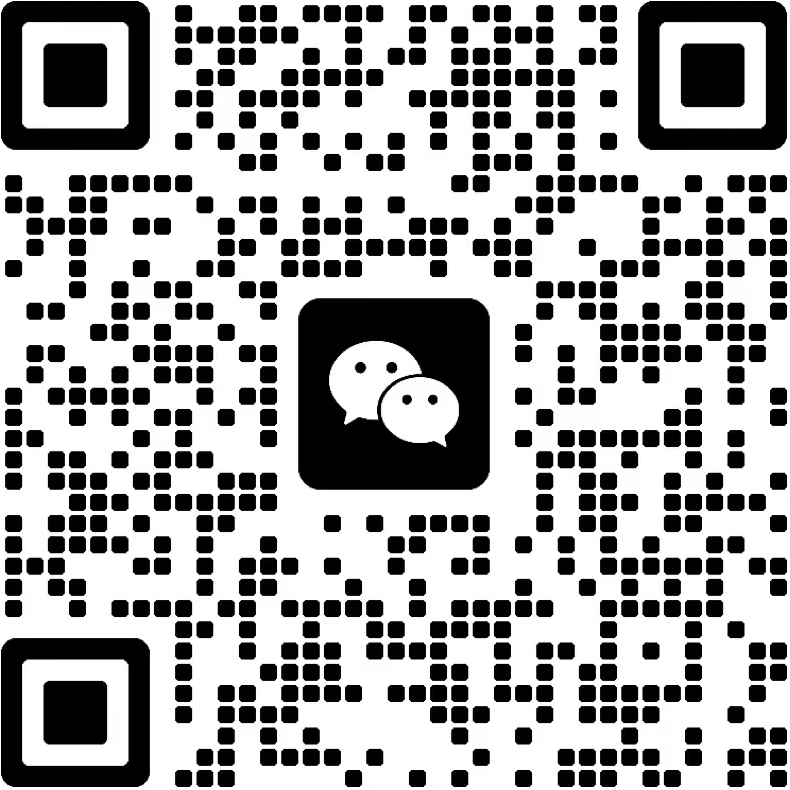
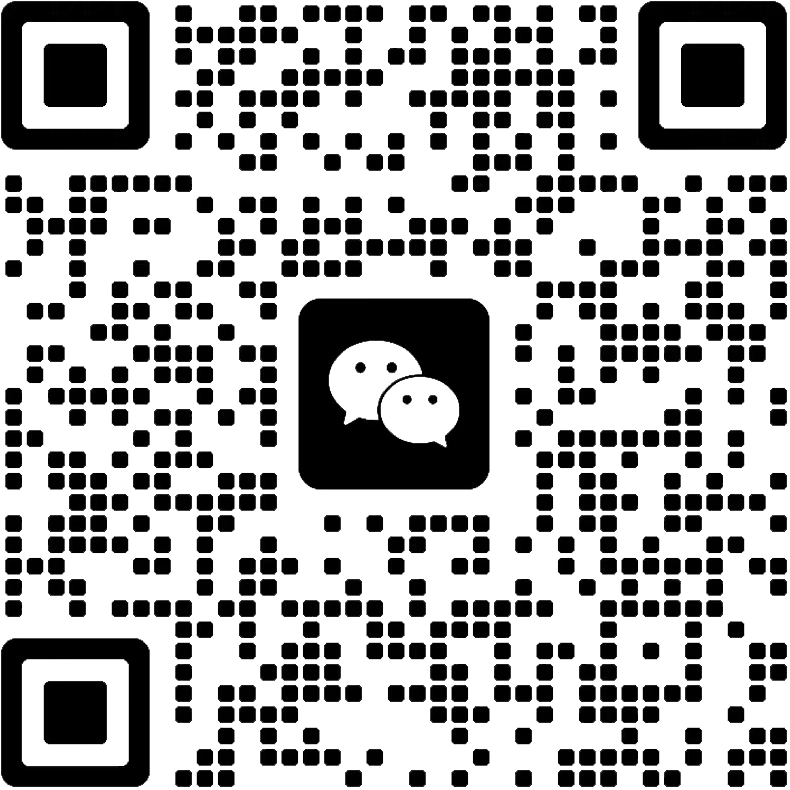
feat(site/blog): adjust and optimize style

diff --git a/site/blog/app/(web)/projects/page.tsx b/site/blog/app/(web)/projects/page.tsx
@@ -17,21 +17,21 @@ export default function Projects() {
   return (
     <>
       {/* text-transparent text-stroke-2 text-stroke-hex-aaa */}
-      <div className="text-3xl text-center font-semibold opacity-30 mb-8 mx-auto">
+      <div className="text-3xl text-center font-semibold opacity-30 mb-8 mx-auto text-slate-800 dark:text-slate-100">
         Projects
       </div>
       <div className="grid gap-4 prose mx-auto">
         {projects.map((proj) => (
           <ProjWrapper
             key={proj.key}
-            className="flex relative rounded-xl p-6 text-sm leading-6 transition bg-gray-50 overflow-hidden ease-in duration-300 fade-in-up"
+            className="flex relative rounded-xl p-6 text-sm leading-6 transition bg-slate-50 dark:bg-slate-700 overflow-hidden ease-in duration-300 fade-in-up"
             href={proj.href}
           >
-            <div className="flex flex-col -space-y-1.5 text-gray-400 pr-6 pt-1 group-hover:text-brand group-hover/show:text-brand">
+            <div className="flex flex-col -space-y-1.5 text-slate-400 pr-6 pt-1 group-hover:text-brand group-hover/show:text-brand">
               {proj.icons?.map((c, i) => (
                 <span
                   key={c + i}
-                  className="w-7 h-7 rounded-full bg-gray-100 ring-2 ring-white inline-flex items-center justify-center"
+                  className="w-7 h-7 rounded-full bg-slate-100 ring-2 ring-white inline-flex items-center justify-center dark:bg-slate-800 dark:ring-slate-600"
                 >
                   <span
                     className={`${c} ease-in duration-300`}
@@ -48,10 +48,10 @@ export default function Projects() {
             <div className="flex-1">
               <button className="flex gap-2 transition items-center">
                 <span className="absolute inset-0 rounded-xl"></span>
-                <span className="text-lg text-gray-600 group-hover:text-brand ease-in duration-300">
+                <span className="text-lg text-slate-600 dark:text-slate-400 group-hover:text-brand ease-in duration-300">
                   {proj.name}
                 </span>
-                {/* <span className="text-gray-400 flex gap-1 items-center grayscale group-hover:grayscale-0 group-hover/show:grayscale-0">
+                {/* <span className="text-slate-400 flex gap-1 items-center grayscale group-hover:grayscale-0 group-hover/show:grayscale-0">
                   {proj.icons?.map((c, i) => (
                     <span
                       key={c + i}
@@ -68,7 +68,7 @@ export default function Projects() {
                 </span> */}
               </button>
 
-              <p className="mt-1 text-gray-500">{proj.desc}</p>
+              <p className="mt-1 text-slate-500">{proj.desc}</p>
               <div className="flex items-center mt-2 text-brand font-semibold">
                 {proj.sub_href ? <AdmLink href={proj.sub_href} /> : null}
 

diff --git a/site/blog/app/(web)/code-snippets/[slug]/page.tsx b/site/blog/app/(web)/code-snippets/[slug]/page.tsx
@@ -80,7 +80,7 @@ export default async ({ params }: Props) => {
 
   return (
     <>
-      <header className="mb-8 prose prose-gray">
+      <header className="mb-8 prose prose-slate dark:prose-invert">
         <h1 className="slide-enter-50">{post.meta.title}</h1>
 
         <div className="slide-enter-50 opacity-50 -mt-2 flex items-center text-sm">
@@ -93,7 +93,7 @@ export default async ({ params }: Props) => {
             <span className="i-heroicons:calendar mr-1 w-4 h-4 text-brand" />
             <DateFormat value={post.meta?.date} />
           </time>
-          {/* <span className="mx-2 w-0.5 h-0.5 bg-gray-500" /> */}
+          {/* <span className="mx-2 w-0.5 h-0.5 bg-slate-500" /> */}
           <time className="inline-flex items-center ml-2">
             <span className="i-heroicons:clock mr-1 w-4 h-4 text-brand" />
             阅读
@@ -103,11 +103,11 @@ export default async ({ params }: Props) => {
         </div>
       </header>
       {/* <article
-        className="fade-in-up-content prose prose-gray"
+        className="fade-in-up-content prose prose-slate"
         dangerouslySetInnerHTML={{ __html: post.html }}
       /> */}
       <MDXContent source={post.content} />
-      <div className="text-sm text-right text-gray-600">
+      <div className="text-sm text-right text-slate-600">
         最近修改时间：
         <DateFormat value={post.meta.lastModified} />
       </div>
@@ -116,7 +116,7 @@ export default async ({ params }: Props) => {
           {prev && (
             <Link
               href={prev.slug}
-              className="inline-flex items-center min-w-0 no-underline text-gray-600 hover:text-gray-800 ease-out"
+              className="inline-flex items-center min-w-0 no-underline text-slate-600 hover:text-slate-800 dark:hover:text-slate-300 ease-out"
             >
               <span className="i-heroicons:chevron-left mr-1 h-4 w-4" />
               <span className="truncate flex-1">{prev.title}</span>
@@ -127,7 +127,7 @@ export default async ({ params }: Props) => {
           {next && (
             <Link
               href={next.slug}
-              className="inline-flex items-center min-w-0 no-underline text-gray-600 hover:text-gray-800 ease-out"
+              className="inline-flex items-center min-w-0 no-underline text-slate-600 hover:text-slate-800 dark:hover:text-slate-300 ease-out"
             >
               <span className="truncate flex-1">{next.title}</span>
 

diff --git a/site/blog/app/(web)/posts/[slug]/page.tsx b/site/blog/app/(web)/posts/[slug]/page.tsx
@@ -80,7 +80,7 @@ export default async ({ params }: Props) => {
 
   return (
     <>
-      <header className="mb-8 prose prose-gray">
+      <header className="mb-8 prose prose-slate dark:prose-invert">
         <h1 className="slide-enter-50">{post.meta.title}</h1>
 
         <div className="slide-enter-50 opacity-50 -mt-2 flex items-center text-sm">
@@ -93,7 +93,7 @@ export default async ({ params }: Props) => {
             <span className="i-heroicons:calendar mr-1 w-4 h-4 text-brand" />
             <DateFormat value={post.meta?.date} />
           </time>
-          {/* <span className="mx-2 w-0.5 h-0.5 bg-gray-500" /> */}
+          {/* <span className="mx-2 w-0.5 h-0.5 bg-slate-500" /> */}
           <time className="inline-flex items-center ml-2">
             <span className="i-heroicons:clock mr-1 w-4 h-4 text-brand" />
             阅读
@@ -103,11 +103,11 @@ export default async ({ params }: Props) => {
         </div>
       </header>
       {/* <article
-        className="fade-in-up-content prose prose-gray"
+        className="fade-in-up-content prose prose-slate"
         dangerouslySetInnerHTML={{ __html: post.html }}
       /> */}
       <MDXContent source={post.content} />
-      <div className="text-sm text-right text-gray-600">
+      <div className="text-sm text-right text-slate-600">
         最近修改时间：
         <DateFormat value={post.meta.lastModified} />
       </div>
@@ -116,7 +116,7 @@ export default async ({ params }: Props) => {
           {prev && (
             <Link
               href={prev.slug}
-              className="inline-flex items-center min-w-0 no-underline text-gray-600 hover:text-gray-800 ease-out"
+              className="inline-flex items-center min-w-0 no-underline text-slate-600 hover:text-slate-800 dark:hover:text-slate-300 ease-out"
             >
               <span className="i-heroicons:chevron-left mr-1 h-4 w-4" />
               <span className="truncate flex-1">{prev.title}</span>
@@ -127,7 +127,7 @@ export default async ({ params }: Props) => {
           {next && (
             <Link
               href={next.slug}
-              className="inline-flex items-center min-w-0 no-underline text-gray-600 hover:text-gray-800 ease-out"
+              className="inline-flex items-center min-w-0 no-underline text-slate-600 hover:text-slate-800 dark:hover:text-slate-300 ease-out"
             >
               <span className="truncate flex-1">{next.title}</span>
 

diff --git a/site/blog/app/(web)/posts/page.tsx b/site/blog/app/(web)/posts/page.tsx
@@ -18,7 +18,7 @@ export default async function Posts() {
 
   return (
     <>
-      <div className="uppercase py-1 mb-8 -mt-8 text-sm text-center font-medium tracking-widest text-gray-400">
+      <div className="uppercase py-1 mb-8 -mt-8 text-sm text-center font-medium tracking-widest text-slate-400">
         Total {posts?.length} Posts
       </div>
       <div className="prose grid gap-9 m-auto">
@@ -28,10 +28,10 @@ export default async function Posts() {
             className="group font-normal overflow-hidden cursor-pointer no-underline transition fade-in-up "
             key={post.slug}
           >
-            <div className="text-xl text-gray-600 group-hover:text-brand truncate ease-in duration-300">
+            <div className="text-xl text-slate-600 dark:text-slate-300 group-hover:text-brand truncate ease-in duration-300">
               {post.meta?.title}
             </div>
-            <div className="text-gray-400 text-sm leading-none flex items-center">
+            <div className="text-slate-400 text-sm leading-none flex items-center">
               {post.meta.draft ? (
                 <span className="opacity-50 text-sm border border-orange-300 bg-orange-200 text-orange-600 rounded-sm px-1 mr-2">
                   Draft
@@ -41,14 +41,14 @@ export default async function Posts() {
                 <span className="i-heroicons:calendar mr-1 w-4 h-4 text-brand" />
                 <DateFormat value={post.meta?.date} short />
               </time>
-              <span className="mx-2 w-0.5 h-0.5 bg-gray-400" />
+              <span className="mx-2 w-0.5 h-0.5 bg-slate-400" />
               {/* {post.meta.category} */}
               {post.meta?.tags.slice(0, 3).map((tag: string) => (
                 <PostLabel title={tag} key={tag} />
               ))}
             </div>
 
-            <div className="text-gray-500 line-clamp-3">
+            <div className="text-slate-500 line-clamp-3">
               {post.meta.description || post.excerpt}
             </div>
           </Link>

diff --git a/site/blog/app/(web)/page.tsx b/site/blog/app/(web)/page.tsx
@@ -17,10 +17,10 @@ export default function Home() {
       <div className="text-3xl mb-2">
         <span className="i-ri:quill-pen-line text-brand" />
       </div>
-      <div className="text-gray-600 tracking-tight max-w-5xl">
+      <div className="text-slate-600 tracking-tight max-w-5xl dark:text-slate-300">
         专注于前端的全栈工程师，参与工作距今已经有十多年，有着丰富的2B系统开发及架构经验。早年从事UI设计工作，因此对用户体验及交互上具有一定的把控。目前主要以前端开发为主，对服务端技术如：Node.js、Next.js、NestJS也具备一定的掌握。擅长以React为核心的各类技术栈进行软件开发，喜欢工程化方面领域，喜欢交互设计。
       </div>
-      <ul className="mt-4 text-gray-400 font-light">
+      <ul className="mt-4 text-slate-400 font-light">
         <li>
           🎉
           技术栈包括：React、Next.js、Node.js、Wagmi、Viem、Electron、TypeScript、Sass、UnoCSS、Tailwind CSS等。
@@ -41,7 +41,7 @@ export default function Home() {
             width={120}
             height={120}
             alt="qr code"
-            className="opacity-60 grayscale mt-1"
+            className="opacity-75 mt-1 dark:invert"
           />
         </li>
       </ul>

diff --git a/site/blog/app/(web)/code-snippets/page.tsx b/site/blog/app/(web)/code-snippets/page.tsx
@@ -16,7 +16,7 @@ export default async function Projects() {
   return (
     <>
       <div className="prose grid gap-2 m-auto">
-        <div className="uppercase py-1 mb-8 -mt-8 text-sm font-medium tracking-widest text-gray-400">
+        <div className="uppercase py-1 mb-8 -mt-8 text-sm font-medium tracking-widest text-slate-400">
           Total {posts?.length} Code Snippets
         </div>
         {posts?.map((post: any) => (
@@ -25,7 +25,7 @@ export default async function Projects() {
             className="group font-normal overflow-hidden cursor-pointer no-underline transition fade-in-up "
             key={post.slug}
           >
-            <div className=" text-gray-600 group-hover:text-brand truncate ease-in duration-300">
+            <div className=" text-slate-600 dark:text-slate-400 group-hover:text-brand truncate ease-in duration-300">
               {post.meta?.title}
             </div>
           </Link>

diff --git a/site/blog/app/(web)/components/ScrollTop.tsx b/site/blog/app/(web)/components/ScrollTop.tsx
@@ -12,8 +12,10 @@ export default function ScrollTop() {
     <span
       onClick={toTop}
       className={clsx(
-        "fixed z-40 right-8 bottom-8 rounded-full w-10 h-10 bg-gray-50 flex items-center justify-center text-gray-400 transition ease-in-out  hover:bg-gray-100 hover:text-gray-500",
-        { "opacity-80 cursor-pointer": y > 300, "opacity-0": y < 300 }
+        `fixed z-40 right-8 bottom-8 rounded-full w-10 h-10 bg-slate-50 flex items-center justify-center text-slate-400 transition ease-in-out 
+         hover:bg-slate-100 hover:text-slate-500
+         dark:bg-slate-700 dark:hover:bg-slate-600`,
+        { "opacity-80 cursor-pointer": y > 300, "opacity-0": y < 300 },
       )}
     >
       <i className="i-heroicons:arrow-small-up" />

diff --git a/site/blog/app/(web)/projects/kupo-monitor/page.tsx b/site/blog/app/(web)/projects/kupo-monitor/page.tsx
@@ -27,7 +27,7 @@ const pic_url11 = "/images/projects/kupo-monitor/rule-04.png";
 export default function Preview() {
   return (
     <>
-      <div className="prose prose-gray mx-auto">
+      <div className="prose prose-slate dark:prose-invert mx-auto">
         <h2>事中监控平台</h2>
         <p>
           针对金融机构提供对各类金融活动产生的的事件进行监控管理降低业务风险。提供针对事件的预警管理、案件管理，以及黑白名单、规则引挚、策略包、数据看盘等方面功能。

diff --git a/site/blog/app/styles/globals.scss b/site/blog/app/styles/globals.scss
@@ -746,18 +746,30 @@
 ::-webkit-scrollbar {
   width: 4px;
   height: 4px;
-  background-color: #eee;
 }
 
 /*定义滚动条轨道 */
 ::-webkit-scrollbar-track {
   background-color: #eee;
+  border-radius: 4px;
 }
 
 /*定义滑块 */
 ::-webkit-scrollbar-thumb {
   background-color: #ddd;
   border-radius: 4px;
+}
+
+.dark {
+  /*定义滚动条轨道 */
+  ::-webkit-scrollbar-track {
+    @apply bg-slate-600;
+  }
+
+  /*定义滑块 */
+  ::-webkit-scrollbar-thumb {
+    @apply bg-slate-700;
+  }
 }
 
 /*  */

diff --git a/site/blog/app/(web)/projects/luban/page.tsx b/site/blog/app/(web)/projects/luban/page.tsx
@@ -17,7 +17,7 @@ export async function generateMetadata() {
 export default function Preview() {
   return (
     <>
-      <div className="prose prose-gray mx-auto">
+      <div className="prose prose-slate dark:prose-invert mx-auto">
         <h2>鲁班系统</h2>
         <p>
           包含桌面端与WEB端，定位于关注精细化运营、高效运营支撑。主要支撑课程顾问、班主任老师对客户转化、社群运营的诉求，协助一线老师完成销售、运营目标。

diff --git a/site/blog/app/(web)/components/Header.tsx b/site/blog/app/(web)/components/Header.tsx
@@ -95,7 +95,7 @@ export default () => (
                 className="flex-shrink-0 h-4 w-4 "
                 aria-hidden="true"
               />
-              <span className="hidden md:flex text-gray-500 hover:text-gray-900">
+              <span className="hidden md:flex text-slate-500 hover:text-slate-900 dark:hover:text-slate-200">
                 {item.name}
               </span>
             </Link>

diff --git a/site/blog/app/(web)/components/Theme.tsx b/site/blog/app/(web)/components/Theme.tsx
@@ -9,7 +9,7 @@ export default function Theme() {
   return (
     <a
       onClick={() => setTheme(isDark ? "light" : "dark")}
-      className="text-slate-800 dark:text-white cursor-pointer"
+      className="text-slate-600 dark:text-slate-200 cursor-pointer"
     >
       <i className={isDark ? "i-ri:sun-fill" : "i-ri:moon-fill"} />
     </a>
